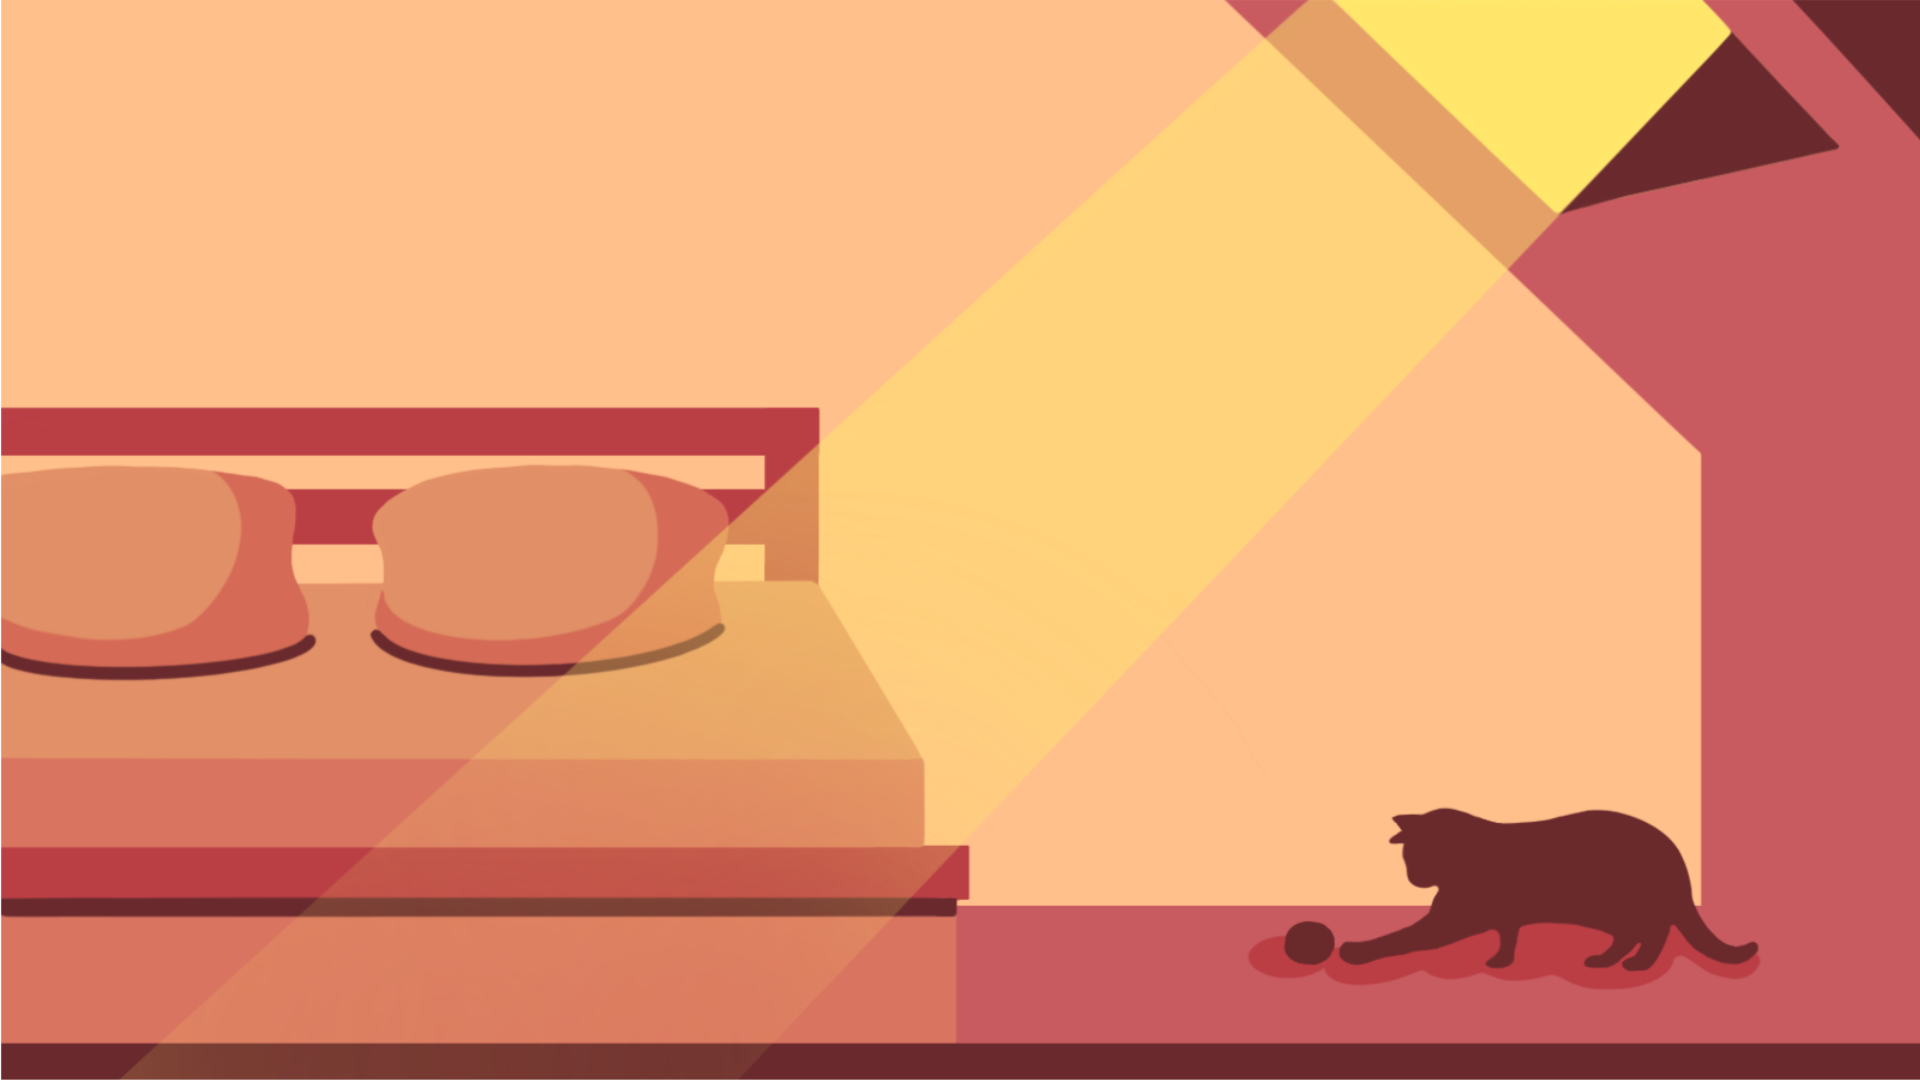
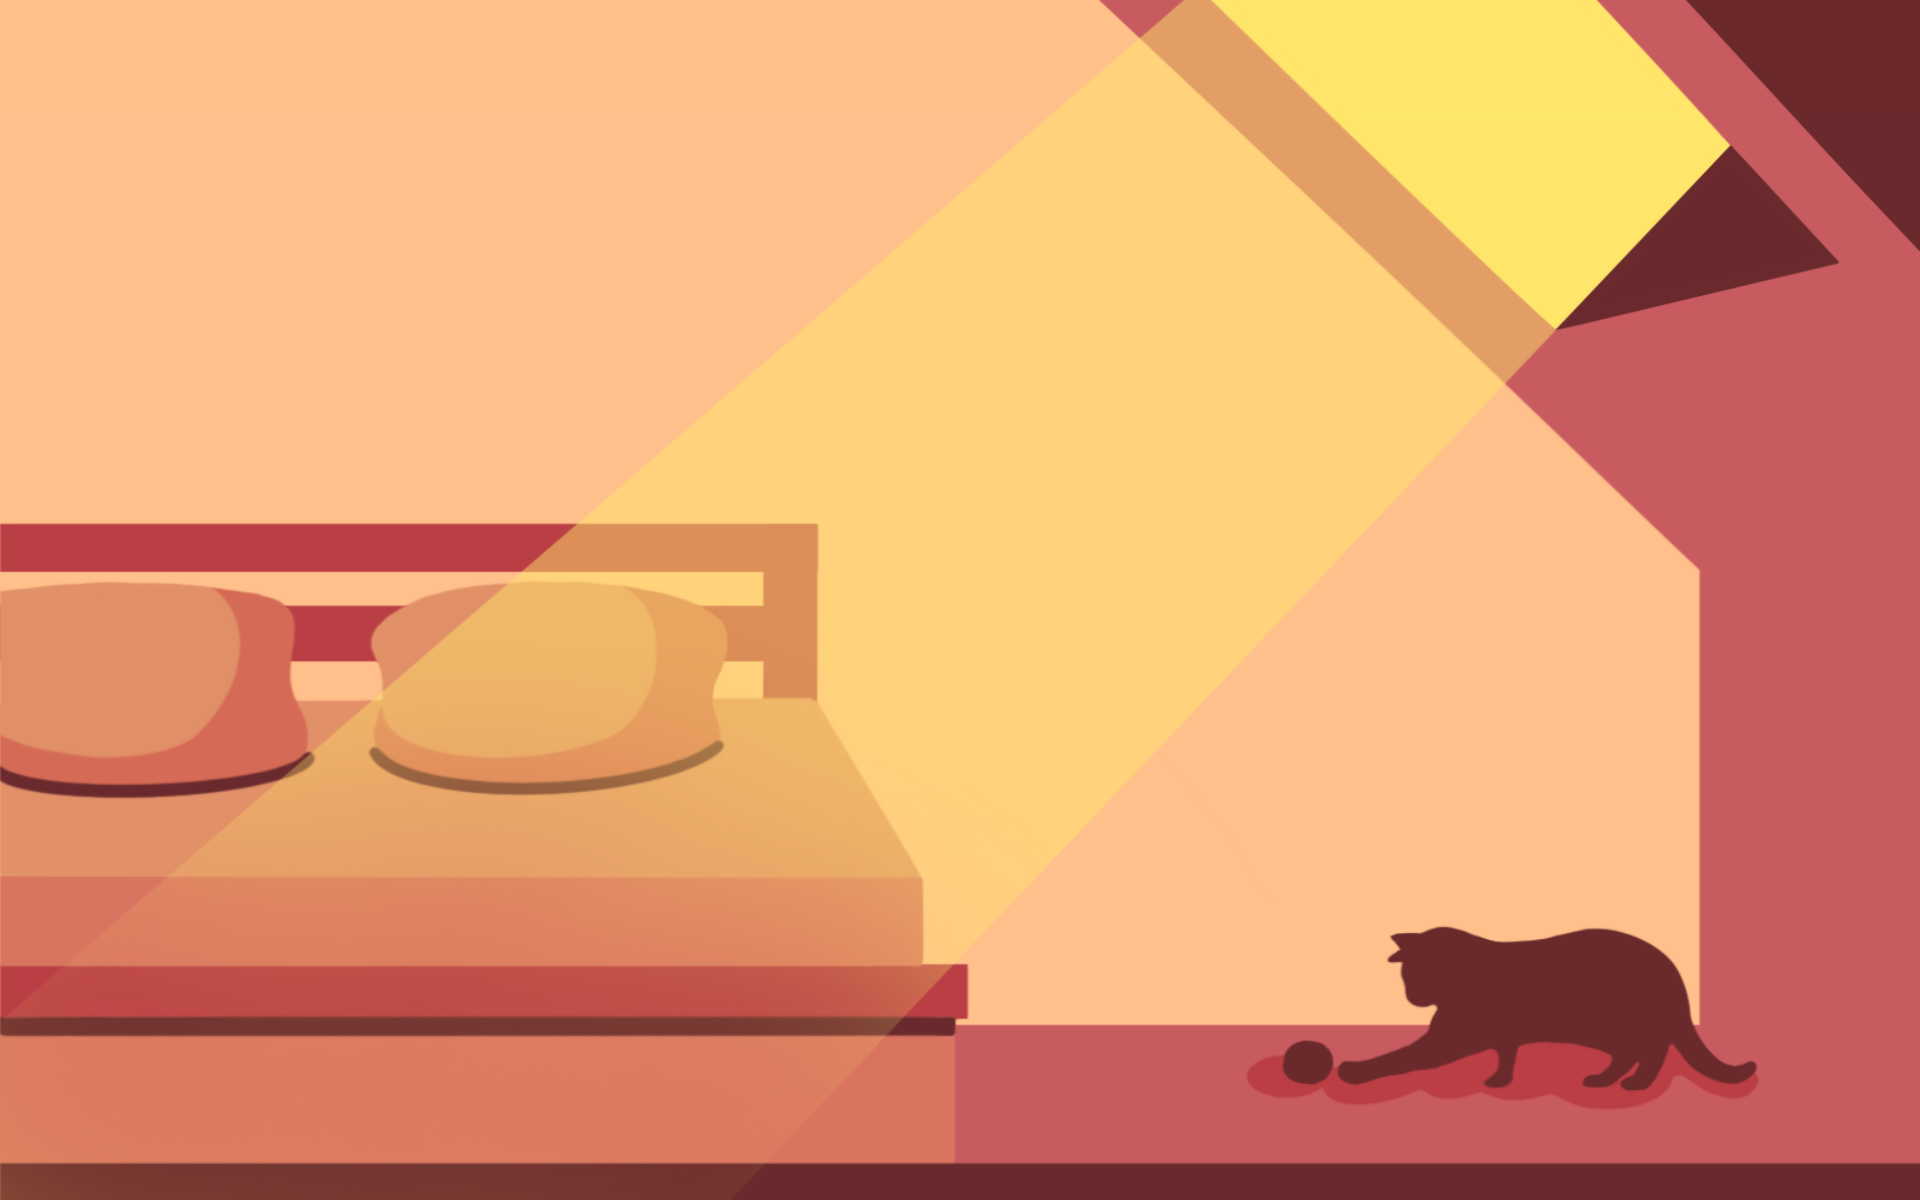
반응형 웹으로 제작
아싸 드디어 반응형 만듬 눈물 날듯

diff --git a/index.html b/index.html
@@ -8,47 +8,53 @@
         @import url(http://fonts.googleapis.com/earlyaccess/hanna.css);
         @import url(https://fonts.googleapis.com/css?family=Noto+Sans+KR:400,500,900|Noto+Serif+KR&subset=korean);
 
-        .logo{
-            font-size: 16.5em;
-            font-weight: 700;
-            margin-left: -4.5%;
-            margin-top: 5%;
-            display: inline-block;
+        html body area {
+            height: 100vh;
         }
+
+        .logo {
+            font-size: 9vw;
+            font-weight: 700;
+            margin-left: -4vw;
+            margin-top: 5vw;
+            display: inline-block;
+            letter-spacing: 2vw;
+        }
+
         ul {
             display: inline-block;
             list-style: none;
-            margin-top: -0%;
-            margin-left: 1.2%;
-            letter-spacing: 5px;
+            margin-left: 0.5vw;
+            margin-bottom: 4.1vh;
+            letter-spacing: 0.5vw;
             color: #BA4146;
-            width: 50%;
+            width: 50vw;
         }
 
         li {
-            margin-left: 6%;
+            word-spacing: 0.6vw;
             padding: 0 0 0 0;
             border: 0;
             float: left;
-            font-size: 3em;
+            font-size: 1.5vw;
             font-weight: 900;
         }
 
         body {
-
-            background-image: url(1.png);
-            background-size: cover;
-            background-repeat: no-repeat;
-            overflow: hidden;
             display: grid;
             grid-template-columns: 1fr 8fr 1fr;
             grid-template-rows: 2.5fr 3fr 2.5fr;
+            width: 100vw;
             height: 100vh;
+            background-image: url(1234.png);
+            background-size: cover;
+            background-repeat: no-repeat;
+            overflow: hidden;
+
         }
 
 
         #area {
-
             display: grid;
             grid-template-columns: 1fr 1fr;
             grid grid-template-rows: 1fr 1fr;
@@ -67,28 +73,26 @@
 
         #main {
             font-family: 'Noto Sans KR', sans-serif;
-            margin-top: 11%;
-            margin-right: 21.7%;
+            margin-top: 5.2vw;
+            margin-right: 7.5vw;
             text-align: center;
             color: #BA4146;
+            letter-spacing: .07vw;
         }
 
-        #title {
-            font-size: 60px;
-            font-weight: 500;
-        }
 
         #main h2 {
-            font-size: 2.8em;
-            margin-bottom: 7%;
+            font-size: 1.7vw;
+            margin-bottom: 4vh;
             font-weight: 500;
+            
         }
 
         #main p {
-            font-size: 1.8em;
+            font-size: 1.1vw;
             display: inline;
             text-align: left;
-            line-height: 178%;
+            line-height: 3.6vh;
             font-weight: 600;
         }
 
@@ -146,33 +150,134 @@
             width: 135%;
         }
 
+        @media screen and (max-width: 1000px) {
+
+            body {
+                background-color: #FFC08B;
+                background-image: none;
+                margin: 0 0 0 0;
+            }
+
+            .area {
+                display: grid;
+                grid grid-template-rows: 1fr 1fr;
+                align-items: center;
+                align-content: center;
+            }
+
+            .logo {
+                font-size: 16.5vw;
+                font-weight: 700;
+                display: inline-block;
+                margin-left: 0%;
+                margin-top: 0%;
+                text-align: center;
+            }
+
+            ul {
+                display: inline-block;
+                list-style: none;
+                margin-top: 5vh;
+                margin-bottom: 5vh;
+                letter-spacing: 1vw;
+                color: #BA4146;
+                width: auto;
+                float: left;
+                text-align: center;
+                margin-left: 0;
+                padding-left: 0;
+            }
+
+            li {
+                display: inline-block;
+                margin: 0 auto;
+                word-spacing: 4vw;
+                padding: 0 0 0 0;
+                border: 0;
+                font-size: 4vw;
+                font-weight: 900;
+                text-align: center;
+                float: none;
+            }
+
+            #area {
+                display: inline-block;
+                width: 100vw;
+                align-content: center;
+                align-items: center;
+                text-align: center;
+                align-self: center;
+            }
+
+            .grid_area {
+                display: inline-block;
+                width: 75vw;
+                text-align: center;
+            }
+
+            #main {
+                font-family: 'Noto Sans KR', sans-serif;
+                margin-top: 0;
+                margin-right: 0;
+                text-align: center;
+                color: #BA4146;
+            }
+
+
+            #main h2 {
+                font-size: 5vw;
+                margin-bottom: 7vw;
+                font-weight: 500;
+            }
+
+            #main p {
+                font-size: 4.5vw;
+                display: inline;
+                text-align: left;
+                line-height: 7vw;
+                font-weight: 600;
+            }
+            
+            button {
+            
+            border: 8vw solid #black;
+            border-radius: 1vw;
+            color: #BA4146;
+            display: inline;
+            font-size: 4vw;
+            font-weight: 900;
+            margin: 10vw auto;
+            padding: 2.3vw 8vw;
+            position: relative;
+            text-transform: uppercase;
+        }
+        }
+
     </style>
 </head>
 
 <body>
     <div class="area"></div>
     <div class="area">
-        
-            <div class="logo">
-                <a href="index.html">다락방</a>
-            </div>
-            
-                <ul>
-                    <li><a href="1.html">Gallery</a></li>
-                    <li><a href="2.html">Profile</a></li>
-                    <li><a href="#3.html">Contact</a></li>
-                </ul>
-            
+
+        <div class="logo">
+            <a href="index.html">다락방</a>
         </div>
-    
+
+        <ul>
+            <li><a href="1.html">Gallery</a>
+                <a href="2.html">Profile</a>
+                <a href="#3.html">Contact</a></li>
+        </ul>
+
+    </div>
+
     <div class="area"></div>
     <div class="area"></div>
     <div id="area" class="area">
         <div class="grid_area">
 
         </div>
-        <div class="grid_area"></div>
-        <div class="grid_area"></div>
         <div class="grid_area">
             <div id="main">
 

diff --git a/2 2.html b/2 2.html
@@ -57,10 +57,7 @@
             justify-content: center;
             align-content: center;
         }
-        
-        .content img{
-            width: 200px;
-        }
+
         .nav ul {
             list-style: none;
             margin-top: 45px;
@@ -106,7 +103,7 @@
         </div>
         <div class="contents">
             <div class="content">
-                <a href="#gallery1.html" target="gallery1"><img src="char/1.png"></a>
+                1
             </div>
             <div class="content">
                 2
